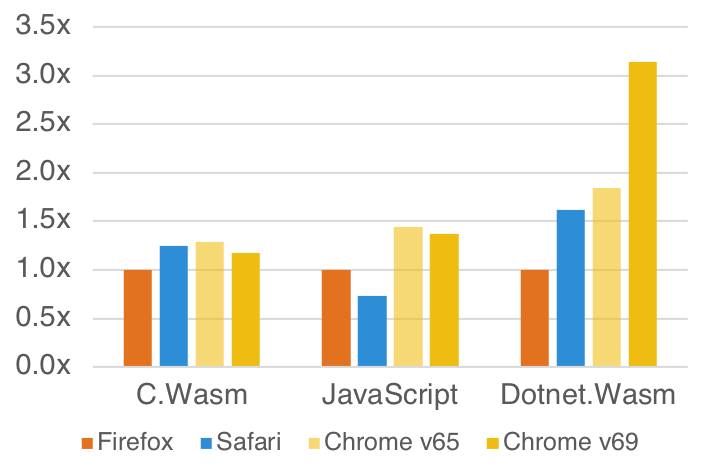
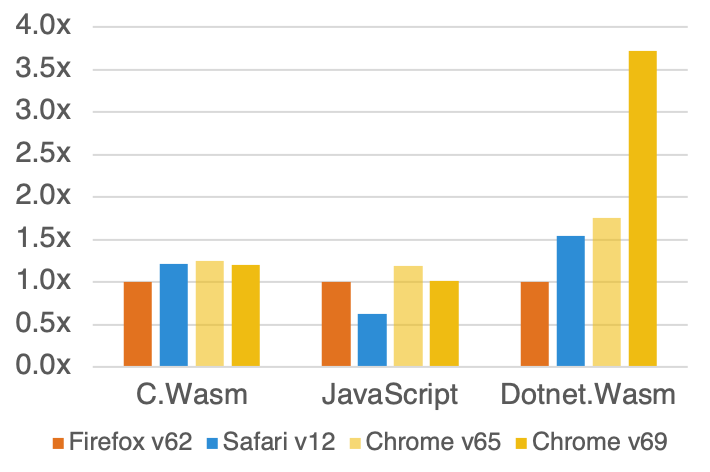
Adjust JS generate to match C#, updated results accordingly

diff --git a/bakkBenchmark.JavaScript/src/DNAGenerator.ts b/bakkBenchmark.JavaScript/src/DNAGenerator.ts
@@ -7,7 +7,7 @@ class DNAGenerator
 
     public static generate(n: number, length: number): string[]
     {
-        var res = new Array<string>();
+        var res = new Array<string>(n);
 
         for (let i = 0; i < n; i++)
         {
@@ -15,7 +15,7 @@ class DNAGenerator
 
             for (let j = 0; j < length; j++)
             {
-                arr.push(DNAGenerator.getRandomCode());
+                arr[j] = DNAGenerator.getRandomCode();
             }
 
             res[i] = arr.join('');

diff --git a/README.MD b/README.MD
@@ -14,8 +14,8 @@ The Benchmark currently performs the following four tasks:
 The Benchmark was implemented in the following languages/platforms:
 
 * **C** → clang 6.0.1
-* **C.Wasm** → emcc 1.38.6 (emcc needs to be in PATH variable)
-* **JavaScript** → TypeScript 2.8.1 (tsc needs to be in PATH variable)
+* **C.Wasm** → emcc 1.38.6
+* **JavaScript** → TypeScript 3.0.3
 * **DotNet.Console** → .NET Core 2.1.300
 * **DotNet.Interpreter** → Mono 5.14.0
 * **DotNet.Wasm** → mono-wasm commit c211324 ($WASM_SDK variable needs to be set)
@@ -26,14 +26,13 @@ The .NET Projects where build with `Release` configuration and the C Projects wi
 
 The following results were recorded on a MacBook Pro (Retina, 15-inch, Late 2013) and where applicable Firefox 62.0 was used as the browser.
 
-
-| Benchmark |          C |       C.Wasm |   JavaScript | Dotnet.Console |   Dotnet.Wasm | DotNet.Interp |
-|-----------|-----------:|-------------:|-------------:|---------------:|--------------:|--------------:|
-| Generate  |     529.92 |       675.90 |     3,022.00 |       1,255.31 |     27,612.40 |     10,866.80 |
-| Sequence  |     284.10 |       491.20 |       579.10 |         364.82 |      8,310.80 |      2,503.20 |
-| Sort      |      83.89 |       164.30 |       330.80 |         172.32 |      5,649.30 |      2,065.82 |
-| Calculate |       3.58 |         5.50 |        11.40 |           6.62 |        395.00 |        130.21 |
-|           | **901.49** | **1,336.90** | **3,943.30** |   **1,799.06** | **41,967.50** | **15,566.04** |
+| Benchmark |      C |   C.Wasm | JavaScript | Dotnet.Console | Dotnet.Wasm | Dotnet.Interp |
+|-----------|-------:|---------:|-----------:|---------------:|------------:|--------------:|
+| Generate  | 529.92 |   675.90 |   2,577.89 |       1,255.31 |   27,612.40 |     10,866.80 |
+| Sequence  | 284.10 |   491.20 |     581.21 |         364.82 |    8,310.80 |      2,503.20 |
+| Sort      |  83.89 |   164.30 |     325.88 |         172.32 |    5,649.30 |      2,065.82 |
+| Calculate |   3.58 |     5.50 |      11.68 |           6.62 |      395.00 |        130.21 |
+|           | **901.49** | **1,336.90** | **3,496.67** | **1,799.06** | **41,967.50** | **15,566.04** |
 
 <img alt="Benchmark Chart - Firefox" src="images/benchmark-overall-ff.png" width="860" />
 
